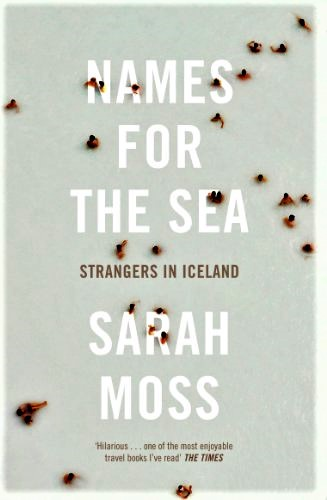
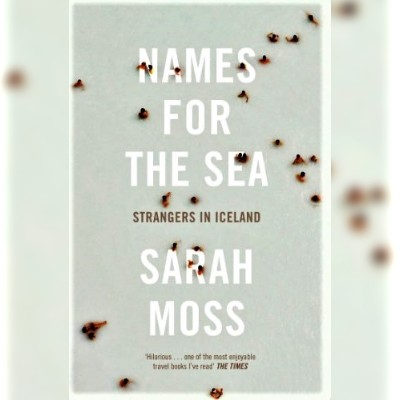
Book covers images edited into a square format

diff --git a/register.html b/register.html
@@ -140,24 +140,26 @@
     <!---------------------Login here----------------------------------------->
 <div class="container-fluid col-md-6 text-center">
 <h3 class="login"> Already a member? Log in here!</h3>
-      <form id="log-in-form" class="col">
+      <form name="Login" action="/submit.php" onsubmit="return validateform()" method="post" id="log-in-form" class="col"  >
         <div>
           <input
             type="text"
             id="form_loginemail"
+            name="email"
             placeholder="Email Address"
             required
           />
-          <span class="error_form" id="loginemail_error_message"></span>
+        
         </div>
         <div>
           <input
             type="password"
             id="form_loginpassword"
+            name="password"
             placeholder="Password"
             required
           />
-          <span class="error_form" id="loginpassword_error_message"></span>
+         
         </div>
         
         <input type="submit" value="Log in" style="width: 100%;" name="" />
@@ -236,6 +238,7 @@
         </section>
       </footer>
       <script type="text/javascript" src="assets/js/main.js"></script>
+      
 
       <script
         src="https://cdnjs.cloudflare.com/ajax/libs/popper.js/1.14.3/umd/popper.min.js"

diff --git a/reads.html b/reads.html
@@ -99,16 +99,16 @@
         </div>
       </div>
     </section>
-
+ 
     <!---------------------------------------------Recommendations selection---------------------------------------------->
     <section class="books">
       <!-------------Row 1----------------------------------->
       <div class="row">
         <!-----------------------------Afganistan---------------------------------------->
-        <div class="col d-flex justify-content-center">
+        <div class="col d-flex justify-content-center ">
           <div class="card" style="width: 18rem;">
             <img
-              class="card-img-top"
+              class="card-img-top "
               src="assets/books/afganistan.jpg"
               alt="Card image cap"
             />

diff --git a/assets/js/main.js b/assets/js/main.js
@@ -1,3 +1,6 @@
+
+
+
 $(function() {
 //hiding error messages
          $("#first_name_error_message").hide();
@@ -121,4 +124,16 @@ $(function() {
 
          });
       });
+
+
+      
+
+
+
+
+        
+      
+
+
+      
 

diff --git a/assets/css/style.css b/assets/css/style.css
@@ -236,7 +236,9 @@ a:hover {
   width: 286px;
   box-shadow: 0 4px 8px 0 rgba(0, 0, 0, 0.2), 0 6px 20px 0 rgba(0, 0, 0, 0.19);
   text-align: center;
+
 }
+
 
 .card-body {
   padding-top: 0;
